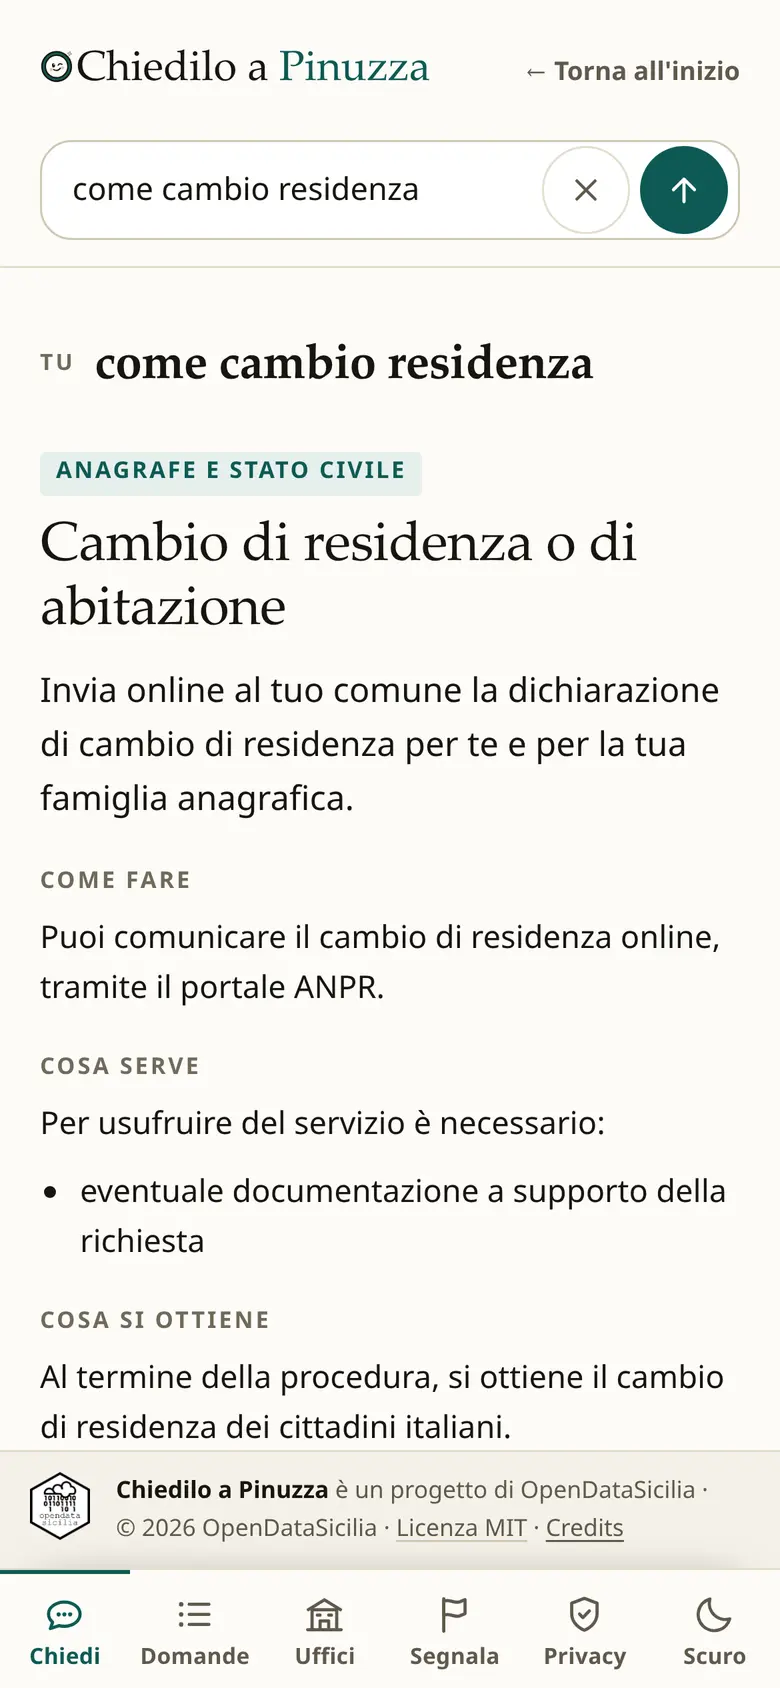
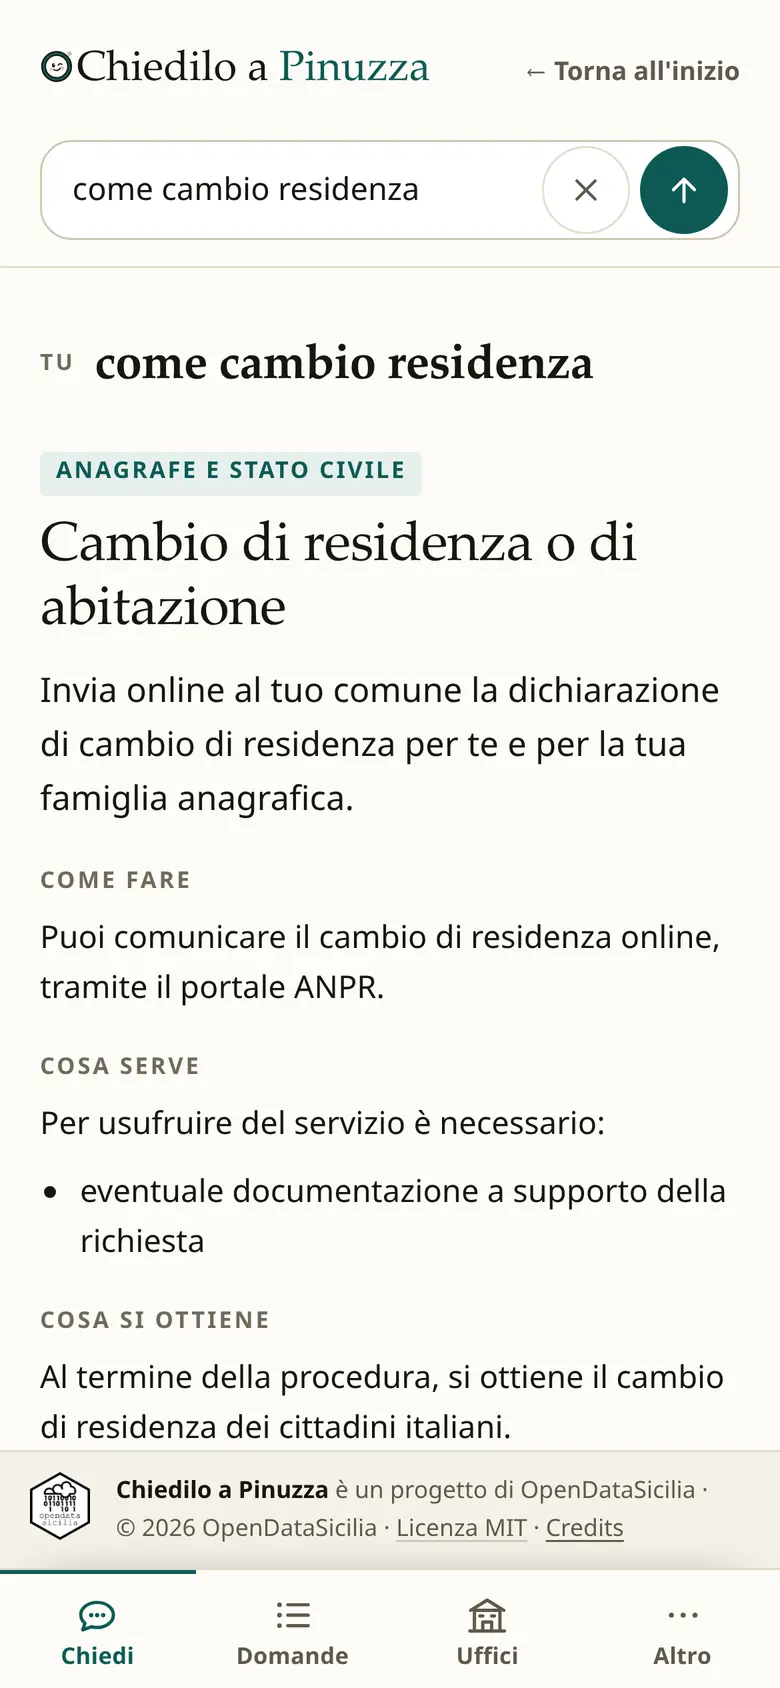
Allinea la guida al menù «Altro» del telefono
La barra in basso ora ha quattro posti (Chiedi, Domande, Uffici, Altro): la
sezione «Sul telefono» della guida diceva ancora sei voci e mostrava la vecchia
barra. Riscritta la parte sul menù e sul cambio di tema (il comando si chiama
«Aspetto»), rifatta la schermata della risposta sul telefono e aggiunta quella
del pannello «Altro» con Salvate, Guida, Segnala, Privacy e Aspetto.

Service worker a `pinuzza-v41`: le schermate stanno nella cache del guscio e
senza il cambio di versione resterebbero quelle vecchie. Test: 87 statici,
16 casi di interfaccia, axe pulito anche sul pannello.

diff --git a/guida.html b/guida.html
@@ -216,7 +216,7 @@ try{document.documentElement.dataset.theme=localStorage.getItem("pinuzza-tema")=
     </figure>
 
     <ul>
-      <li><strong>«Salva questa risposta»</strong> la mette da parte nella memoria di questo browser. La ritrovi nella pagina <a href="salvati.html">Risposte salvate</a>, voce «Salvate» nel menu; da lì puoi riaprirla o toglierla.</li>
+      <li><strong>«Salva questa risposta»</strong> la mette da parte nella memoria di questo browser. La ritrovi nella pagina <a href="salvati.html">Risposte salvate</a> (voce «Salvate» nel menu in alto, «Altro» sul telefono); da lì puoi riaprirla o toglierla.</li>
       <li><strong>«Sì, grazie»</strong> registra un evento aggregato solo se hai già accettato le statistiche; <strong>«No, la risposta è sbagliata»</strong> apre una segnalazione su GitHub già scritta, che leggi e correggi prima di inviare.</li>
       <li><strong>«Azzera»</strong> (la × accanto alla freccia) svuota risposta e campo, toglie il <code>?q=</code> dall'indirizzo e ti lascia nella pagina, pronto per una nuova domanda. «Torna all'inizio» in alto riporta invece alla home bianca.</li>
     </ul>
@@ -252,9 +252,10 @@ try{document.documentElement.dataset.theme=localStorage.getItem("pinuzza-tema")=
 
     <h2 id="telefono">7. Sul telefono, al buio, senza rete</h2>
     <p>
-      Sul telefono la barra del menu sta in basso, con le voci Chiedi, Domande, Uffici, Segnala,
-      Privacy e il pulsante del tema. La pagina è la stessa, ridisposta in una colonna: la testata
-      resta in alto e scorre soltanto la parte dei risultati.
+      Sul telefono la barra del menu sta in basso e ha quattro posti: Chiedi, Domande, Uffici e
+      «Altro». Dentro «Altro» ci sono le risposte salvate, questa guida, le segnalazioni, la
+      privacy e il comando per cambiare aspetto. La pagina è la stessa, ridisposta in una colonna:
+      la testata resta in alto e scorre soltanto la parte dei risultati.
     </p>
 
     <figure class="schermata schermata-telefono">
@@ -262,10 +263,15 @@ try{document.documentElement.dataset.theme=localStorage.getItem("pinuzza-tema")=
       <figcaption>Sul telefono il campo resta in alto e i comandi sono a portata di pollice; in basso la barra con le sezioni dell'app.</figcaption>
     </figure>
 
+    <figure class="schermata schermata-telefono">
+      <img src="img/guida/telefono-altro.webp" alt="Il menù «Altro» aperto sul telefono: le voci Salvate, Guida, Segnala, Privacy e cookie e il comando Aspetto per passare al tema scuro." width="780" height="1688" loading="lazy" decoding="async">
+      <figcaption>«Altro» raccoglie le voci che non stanno nei quattro posti della barra, compreso il cambio di tema.</figcaption>
+    </figure>
+
     <p>
-      Il pulsante con la luna (o il sole) passa al tema scuro e torna al chiaro: la scelta resta
-      memorizzata in questo browser e si ritrova anche nelle altre pagine. Il tema chiaro è quello
-      di partenza.
+      Il comando <strong>Aspetto</strong> (nel menu in alto, o in «Altro» sul telefono) passa al
+      tema scuro e torna al chiaro: la scelta resta memorizzata in questo browser e si ritrova
+      anche nelle altre pagine. Il tema chiaro è quello di partenza.
     </p>
 
     <figure class="schermata">

diff --git a/sw.js b/sw.js
@@ -11,7 +11,7 @@
 // A ogni rilascio va incrementata VERSIONE (o si lancia scripts/nuova_versione.sh): le cache
 // vecchie vengono cancellate all'attivazione, così non si serve mai un misto di versioni.
 
-const VERSIONE = 'pinuzza-v40';
+const VERSIONE = 'pinuzza-v41';
 const GUSCIO = `${VERSIONE}-guscio`;
 const PAGINE = `${VERSIONE}-pagine`;
 const DATI = `${VERSIONE}-dati`;
@@ -56,6 +56,7 @@ const PRECACHE = [
   'img/guida/domande.webp',
   'img/guida/uffici.webp',
   'img/guida/telefono.webp',
+  'img/guida/telefono-altro.webp',
   'img/guida/scuro.webp',
   'data/argomenti.json',
   'data/servizi.json',

diff --git a/js/offline.js b/js/offline.js
@@ -5,7 +5,7 @@
 // il guscio e i dati; qui si registra e si dice all'utente che sta lavorando offline,
 // con la data dei dati che sta usando.
 
-const VERSIONE_ATTESA = 'pinuzza-v40'; // deve combaciare con VERSIONE in sw.js (scripts/test_offline.mjs)
+const VERSIONE_ATTESA = 'pinuzza-v41'; // deve combaciare con VERSIONE in sw.js (scripts/test_offline.mjs)
 
 // ---------- service worker ----------
 
